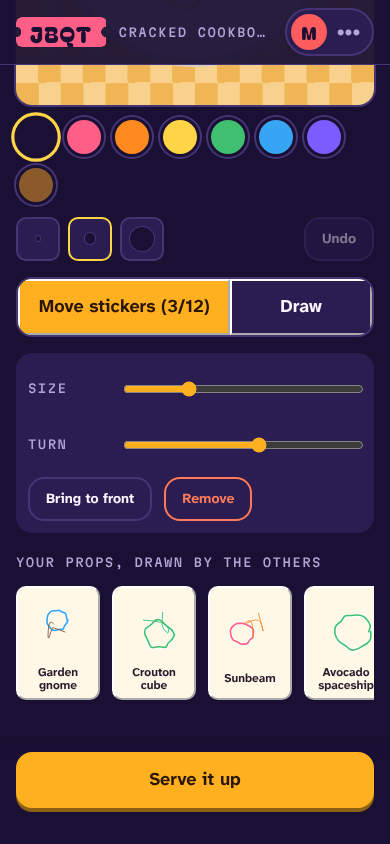
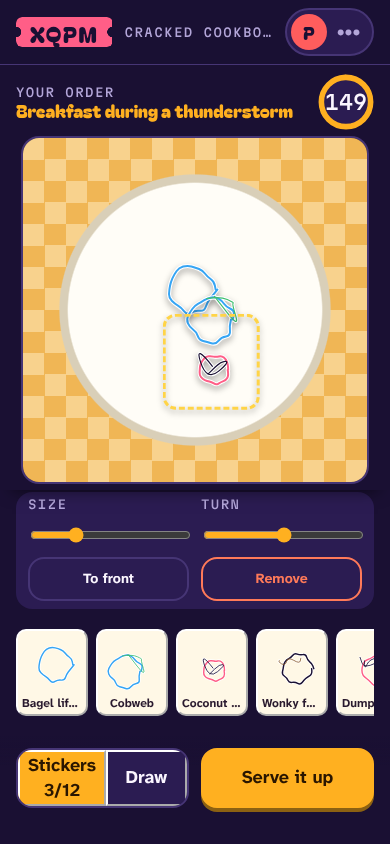
U10: Cracked Cookbook cook phase keeps the plate in view on phones
The order line and plate pin under the phone header while you move
stickers; the Stickers/Draw switch moves into the bottom dock beside
Serve it up; sliders sit side by side; the tray is compact; the plate is
capped by viewport height so plate, sliders, tray and dock all fit at
390x844. The screen's cook board lists orders and cooks unpaired.

Claude-Session: https://claude.ai/code/session_016vAiTvN9x3bpCa47inXvLK

diff --git a/src/games/cracked-cookbook/ui.tsx b/src/games/cracked-cookbook/ui.tsx
@@ -254,42 +254,43 @@ function Compose({ view, send, assets }: { view: CookView; send(a: CookAction): 
     if (picked) setPlaced([...placed.filter((p) => p.uid !== sel), picked]);
   };
 
+  // Phone layout: the order line and the plate stay pinned under the header while the controls
+  // below scroll, and the mode switch sits in the bottom dock beside "Serve it up". So the plate
+  // never scrolls away while a sticker is being moved or resized.
   return (
-    <section class="cc-phone">
-      <Bar view={view} />
-      <PromptCard eyebrow="Your order" tone="accent">
-        {you.meal}
-      </PromptCard>
-      <DrawingCanvas
-        strokes={strokes}
-        onChange={setStrokes}
-        colors={INK}
-        aspect={1}
-        paper={PLATE_PAPER}
-        disabled={mode === 'place'}
-        label={`Plate for ${you.meal}`}
-      >
-        {placed.map((st) => (
-          <DragSticker
-            key={st.uid}
-            st={st}
-            pantry={view.pantry}
-            assets={assets}
-            live={mode === 'place'}
-            selected={st.uid === sel}
-            onSelect={() => setSel(st.uid)}
-            onMove={(x, y) => patch(st.uid, { x, y })}
-          />
-        ))}
-      </DrawingCanvas>
-
-      <div class="cc-seg" role="radiogroup" aria-label="What your finger does">
-        <button type="button" role="radio" aria-checked={mode === 'place'} class={mode === 'place' ? 'is-on' : ''} onClick={() => setMode('place')}>
-          Move stickers ({placed.length}/{MAX_STICKERS})
-        </button>
-        <button type="button" role="radio" aria-checked={mode === 'draw'} class={mode === 'draw' ? 'is-on' : ''} onClick={() => setMode('draw')}>
-          Draw
-        </button>
+    <section class="cc-phone cc-compose">
+      <div class={`cc-pin${mode === 'place' ? ' is-pinned' : ''}`}>
+        <div class="cc-order-line">
+          <p class="cc-order-text">
+            <span class="eyebrow">Your order</span>
+            <b>{you.meal}</b>
+          </p>
+          <Timer deadline={view.deadline} total={COOK_MS} />
+        </div>
+        <DrawingCanvas
+          strokes={strokes}
+          onChange={setStrokes}
+          colors={INK}
+          aspect={1}
+          paper={PLATE_PAPER}
+          disabled={mode === 'place'}
+          tools={mode === 'draw'}
+          label={`Plate for ${you.meal}`}
+          class="cc-canvas"
+        >
+          {placed.map((st) => (
+            <DragSticker
+              key={st.uid}
+              st={st}
+              pantry={view.pantry}
+              assets={assets}
+              live={mode === 'place'}
+              selected={st.uid === sel}
+              onSelect={() => setSel(st.uid)}
+              onMove={(x, y) => patch(st.uid, { x, y })}
+            />
+          ))}
+        </DrawingCanvas>
       </div>
 
       {mode === 'place' && picked && (
@@ -302,22 +303,21 @@ function Compose({ view, send, assets }: { view: CookView; send(a: CookAction): 
             <span class="eyebrow">Turn</span>
             <input type="range" min={-180} max={180} value={picked.r} onInput={(e) => patch(picked.uid, { r: Number((e.target as HTMLInputElement).value) })} />
           </label>
-          <div class="g-row">
-            <button type="button" class="btn btn-s" onClick={front}>
-              Bring to front
-            </button>
-            <button type="button" class="btn btn-s btn-danger" onClick={remove}>
-              Remove
-            </button>
-          </div>
+          <button type="button" class="btn btn-s" onClick={front}>
+            To front
+          </button>
+          <button type="button" class="btn btn-s btn-danger" onClick={remove}>
+            Remove
+          </button>
         </div>
       )}
-      {mode === 'place' && !picked && placed.length > 0 && <p class="g-muted">Tap a sticker to select it, drag to move it.</p>}
+      {mode === 'place' && !picked && (
+        <p class="g-muted cc-hint">{placed.length ? 'Tap a sticker to select it, drag to move it.' : 'Tap a prop below to put it on your plate.'}</p>
+      )}
 
       <div>
-        <span class="eyebrow">Your props, drawn by the others</span>
         {hand.length ? (
-          <div class="cc-tray">
+          <div class="cc-tray" role="group" aria-label="Your props, drawn by the others: tap one to add it">
             {hand.map((i) => (
               <button key={i} type="button" class="cc-tray-item" disabled={placed.length >= MAX_STICKERS} onClick={() => add(i)} aria-label={`Add ${view.pantry[i]?.name}`}>
                 <Art asset={view.pantry[i]?.asset} assets={assets} outline label="" />
@@ -330,8 +330,16 @@ function Compose({ view, send, assets }: { view: CookView; send(a: CookAction): 
         )}
       </div>
 
-      <div class="cc-dock">
-        <button type="button" class="btn btn-primary btn-block" onClick={submit}>
+      <div class="cc-dock cc-dock-cook">
+        <div class="cc-seg" role="radiogroup" aria-label="What your finger does">
+          <button type="button" role="radio" aria-checked={mode === 'place'} class={mode === 'place' ? 'is-on' : ''} onClick={() => setMode('place')}>
+            Stickers {placed.length}/{MAX_STICKERS}
+          </button>
+          <button type="button" role="radio" aria-checked={mode === 'draw'} class={mode === 'draw' ? 'is-on' : ''} onClick={() => setMode('draw')}>
+            Draw
+          </button>
+        </div>
+        <button type="button" class="btn btn-primary" onClick={submit}>
           Serve it up
         </button>
       </div>

diff --git a/src/games/cracked-cookbook/ui.css b/src/games/cracked-cookbook/ui.css
@@ -145,6 +145,65 @@
   padding: var(--s5) var(--gutter) calc(var(--safe-b) + var(--s3));
   background: linear-gradient(to bottom, transparent, var(--bg) 35%);
 }
+/* Cook: the order line and the plate pin under the phone header while you move stickers. */
+.cc-pin {
+  display: grid;
+  gap: var(--s2);
+  background: var(--bg);
+}
+.cc-pin.is-pinned {
+  position: sticky;
+  top: calc(var(--safe-t) + 66px);
+  z-index: 4;
+  margin: calc(var(--s2) * -1) calc(var(--gutter) * -1) 0;
+  padding: var(--s2) var(--gutter) var(--s2);
+  box-shadow: 0 12px 16px -12px rgb(0 0 0 / 0.6);
+}
+/* Sized so the pinned plate, the sliders, the tray and the dock all fit on a 390x844 phone;
+   on shorter phones the plate shrinks (to a floor) and the controls scroll under it. */
+.cc-pin .k-draw-paper {
+  max-width: min(100%, max(240px, calc(100svh - 500px)));
+  margin-inline: auto;
+}
+.cc-order-line {
+  display: flex;
+  align-items: center;
+  justify-content: space-between;
+  gap: var(--s3);
+}
+.cc-order-text {
+  display: grid;
+  min-width: 0;
+  margin: 0;
+}
+.cc-order-text b {
+  font-family: var(--font-display);
+  font-weight: 400;
+  font-size: var(--t-m);
+  line-height: 1.1;
+  color: var(--accent);
+  overflow-wrap: anywhere;
+}
+.cc-hint {
+  margin: 0;
+}
+.cc-compose {
+  gap: var(--s3);
+}
+.cc-dock-cook {
+  padding-top: var(--s3);
+  display: grid;
+  grid-template-columns: minmax(0, 1fr) minmax(0, 1fr);
+  gap: var(--s3);
+  align-items: stretch;
+}
+.cc-dock-cook .cc-seg {
+  grid-template-columns: 1fr 1fr;
+  background: var(--surface);
+}
+.cc-dock-cook .cc-seg button {
+  padding: 0 var(--s2);
+}
 .cc-seg {
   display: grid;
   grid-template-columns: 3fr 2fr;
@@ -165,39 +224,39 @@
   background: var(--accent);
   color: var(--accent-ink);
 }
+/* Compact: two sliders side by side, the two buttons under them. */
 .cc-adjust {
   display: grid;
-  gap: var(--s2);
-  padding: var(--s3);
+  grid-template-columns: 1fr 1fr;
+  gap: 0 var(--s3);
+  padding: var(--s1) var(--s3) var(--s2);
   border-radius: var(--r-m);
   background: var(--surface);
 }
 .cc-adjust label {
   display: grid;
-  grid-template-columns: 4.5em 1fr;
-  align-items: center;
-  gap: var(--s3);
+  gap: 0;
 }
 .cc-adjust input[type='range'] {
   width: 100%;
-  min-height: 44px;
+  min-height: 40px;
   accent-color: var(--accent);
   touch-action: pan-y;
 }
 .cc-tray {
   display: flex;
-  gap: var(--s3);
+  gap: var(--s2);
   overflow-x: auto;
-  padding: var(--s3) 2px var(--s3);
+  padding: var(--s2) 2px;
   scroll-snap-type: x proximity;
   -webkit-overflow-scrolling: touch;
 }
 .cc-tray-item {
   flex: none;
   display: grid;
-  gap: 4px;
-  width: 84px;
-  padding: 6px;
+  gap: 2px;
+  width: 72px;
+  padding: 4px;
   border-radius: var(--r-s);
   background: var(--cc-paper);
   color: var(--cc-ink);
@@ -212,7 +271,9 @@
   opacity: 0.45;
 }
 .cc-tray-item span {
-  overflow-wrap: anywhere;
+  overflow: hidden;
+  white-space: nowrap;
+  text-overflow: ellipsis;
 }
 
 /* ---- reveal (phone sized by default) ---- */
